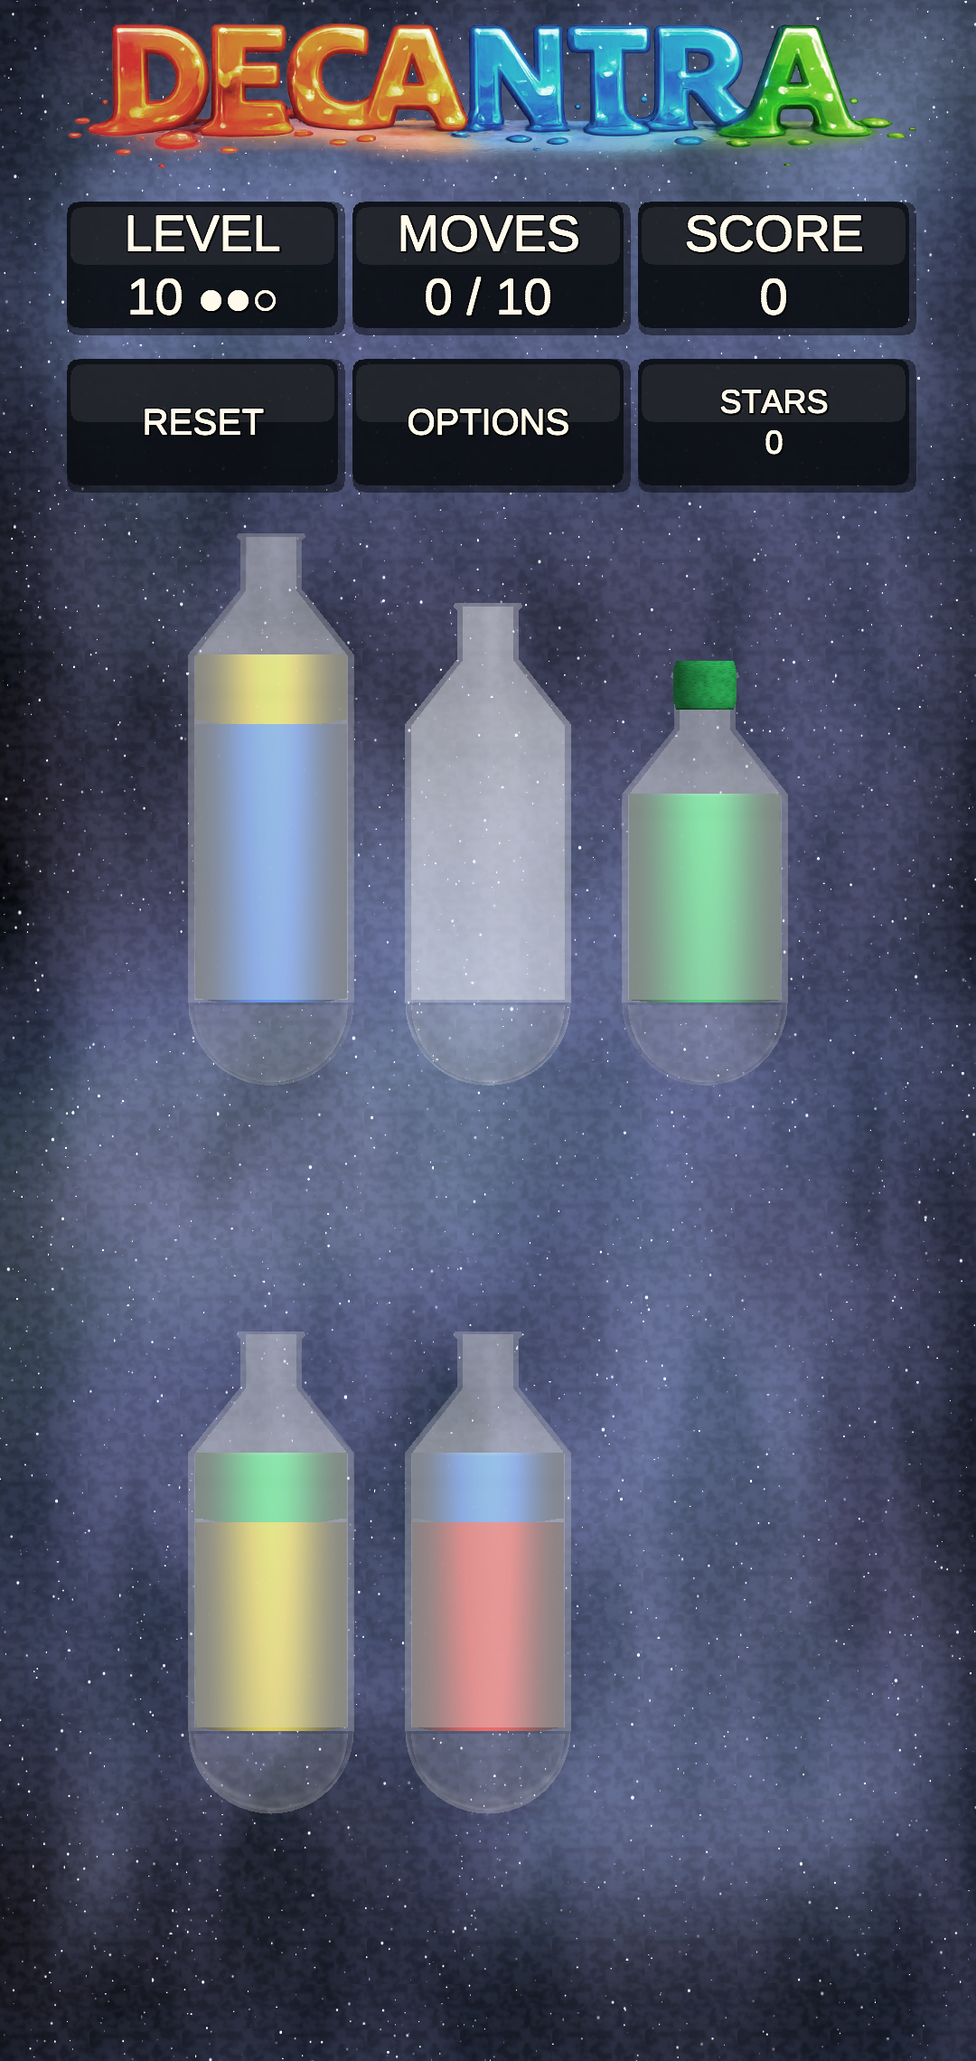
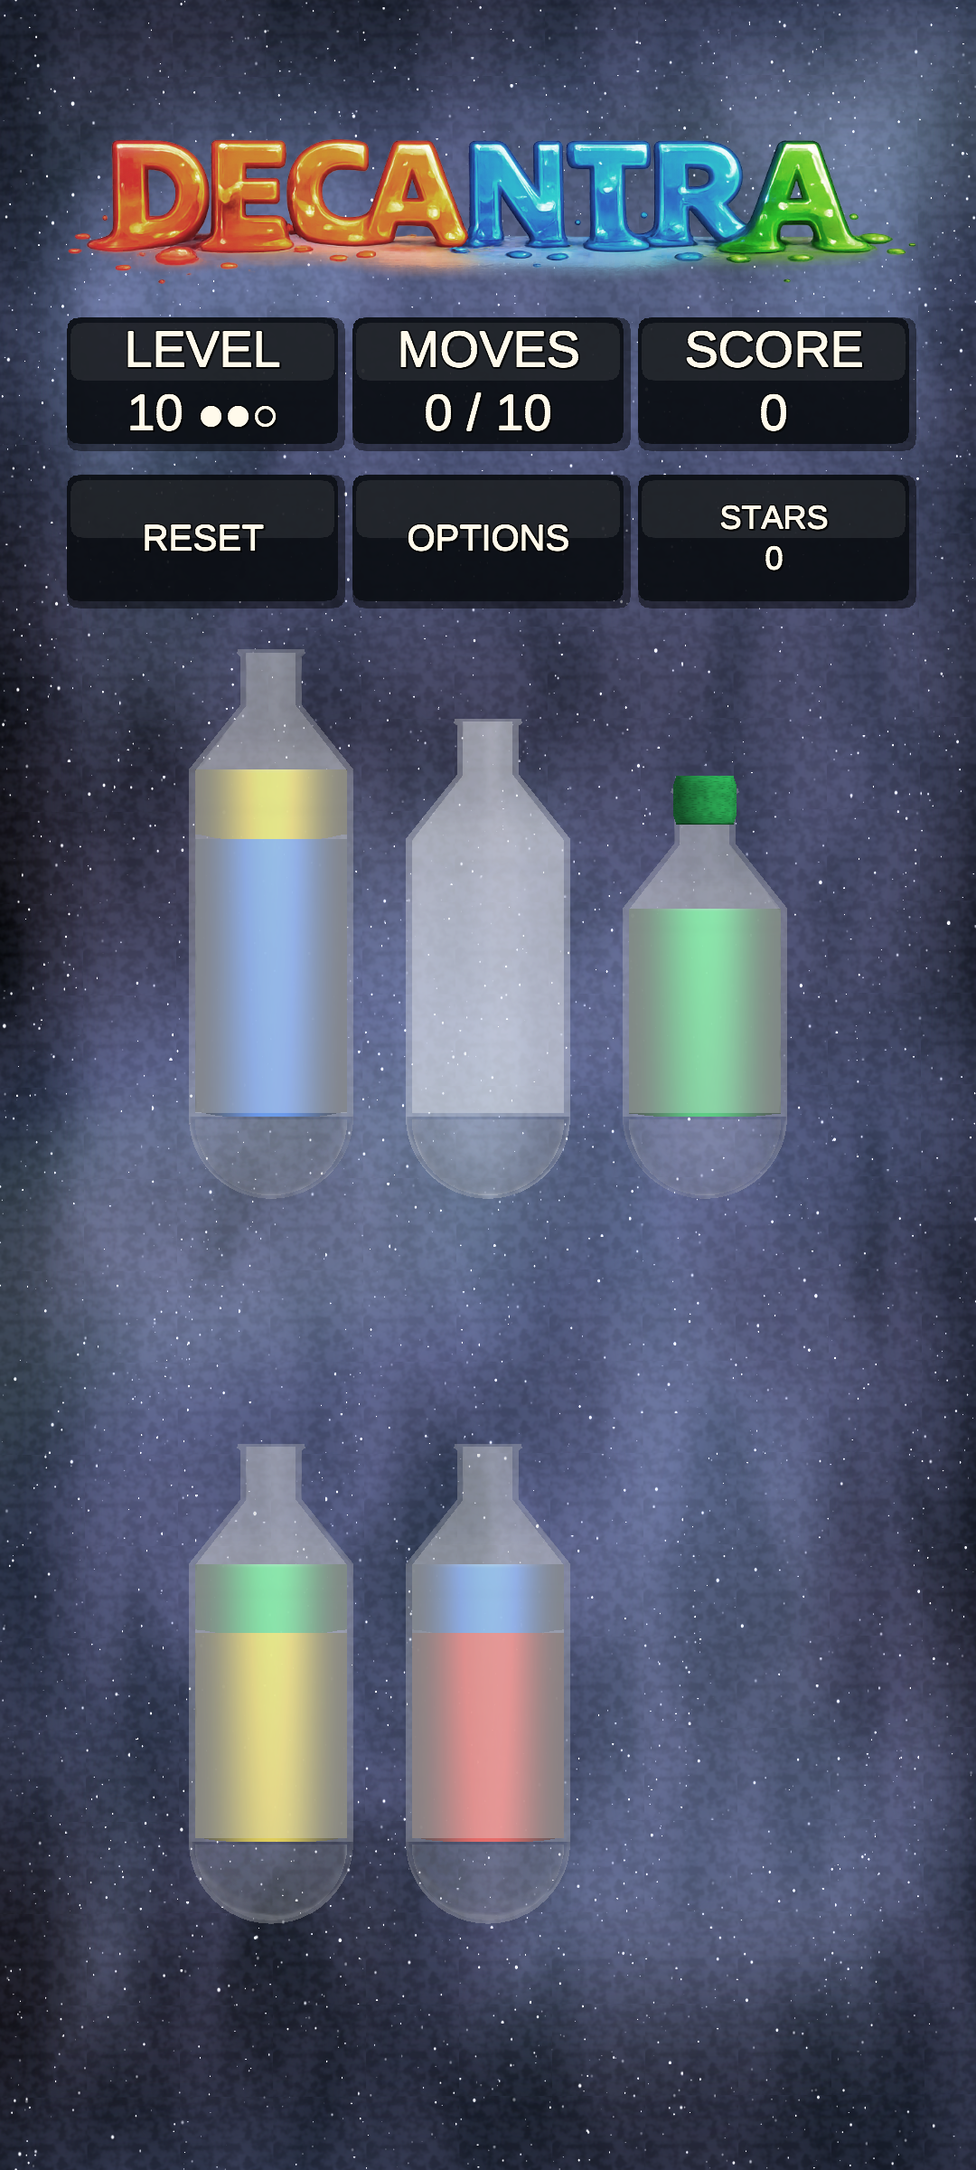
Tighten three-row bottle layout
Adjust HudSafeLayout only for 3-row gameplay boards by shrinking internal row gaps, slightly biasing the grid downward, and reclaiming that space as larger bottle cells while preserving the 2-row equal-gap layout exactly.

Update PlayMode regressions to lock unchanged HUD and horizontal metrics, explicitly expect denser 3-row packing, and prove the original 2-row layout formula remains intact. Refresh the representative 2-row and 3-row validation screenshots plus layout reports from the attached Android device.

diff --git a/Assets/Decantra/Tests/PlayMode/AndroidLayoutInvariancePlayModeTests.cs b/Assets/Decantra/Tests/PlayMode/AndroidLayoutInvariancePlayModeTests.cs
@@ -110,7 +110,7 @@ namespace Decantra.Tests.PlayMode
         // ─── C: Layout metrics match baseline ─────────────────────────────────────
 
         [UnityTest]
-        public IEnumerator LayoutMetrics_MatchPreFixBaseline_NoDeltaExceedsTolerance()
+        public IEnumerator LayoutMetrics_PreserveHudAndHorizontalBaseline_WhileCompactingThreeRowBoards()
         {
             if (!File.Exists(BaselineFixturePath))
             {
@@ -132,21 +132,103 @@ namespace Decantra.Tests.PlayMode
             // --- Positional ratios ---
             AssertRatio("LogoTopY", baseline.LogoTopRatioY, current.LogoTopRatioY);
             AssertRatio("LogoBottomY", baseline.LogoBottomRatioY, current.LogoBottomRatioY);
-            AssertRatio("Row1CapTopY", baseline.Row1CapTopRatioY, current.Row1CapTopRatioY);
-            AssertRatio("Row2CapTopY", baseline.Row2CapTopRatioY, current.Row2CapTopRatioY);
-            AssertRatio("Row3CapTopY", baseline.Row3CapTopRatioY, current.Row3CapTopRatioY);
-            AssertRatio("BottomBottleBottomY", baseline.BottomBottleBottomRatioY, current.BottomBottleBottomRatioY);
             AssertRatio("LeftBottleCenterX", baseline.LeftBottleCenterRatioX, current.LeftBottleCenterRatioX);
             AssertRatio("MiddleBottleCenterX", baseline.MiddleBottleCenterRatioX, current.MiddleBottleCenterRatioX);
             AssertRatio("RightBottleCenterX", baseline.RightBottleCenterRatioX, current.RightBottleCenterRatioX);
-            AssertRatio("RowSpacing12", baseline.RowSpacing12RatioY, current.RowSpacing12RatioY);
-            AssertRatio("RowSpacing23", baseline.RowSpacing23RatioY, current.RowSpacing23RatioY);
             AssertRatio("BottleSpacingLM", baseline.BottleSpacingLMRatioX, current.BottleSpacingLMRatioX);
             AssertRatio("BottleSpacingMR", baseline.BottleSpacingMRRatioX, current.BottleSpacingMRRatioX);
+
+            Assert.Less(current.RowSpacing12RatioY, baseline.RowSpacing12RatioY - RatioTolerance,
+                $"RowSpacing12 should shrink for 3-row boards. baseline={baseline.RowSpacing12RatioY:F6}, current={current.RowSpacing12RatioY:F6}");
+            Assert.Less(current.RowSpacing23RatioY, baseline.RowSpacing23RatioY - RatioTolerance,
+                $"RowSpacing23 should shrink for 3-row boards. baseline={baseline.RowSpacing23RatioY:F6}, current={current.RowSpacing23RatioY:F6}");
+            Assert.Less(current.Row1CapTopRatioY, baseline.Row1CapTopRatioY - RatioTolerance,
+                $"Top row should sit slightly lower under the HUD. baseline={baseline.Row1CapTopRatioY:F6}, current={current.Row1CapTopRatioY:F6}");
+
+            float baselineBottleSpan = baseline.Row1CapTopRatioY - baseline.BottomBottleBottomRatioY;
+            float currentBottleSpan = current.Row1CapTopRatioY - current.BottomBottleBottomRatioY;
+            Assert.Greater(currentBottleSpan, baselineBottleSpan + RatioTolerance,
+                $"3-row bottle stack should occupy more vertical space. baselineSpan={baselineBottleSpan:F6}, currentSpan={currentBottleSpan:F6}");
 
             Debug.Log($"[AndroidLayoutInvariance] All layout metrics within tolerance. " +
                       $"Canvas={current.CanvasWidth}×{current.CanvasHeight}, " +
                       $"Row1TopY={current.Row1CapTopY:F2}, RowGap12={current.RowGap12:F2}px");
+        }
+
+        [UnityTest]
+        public IEnumerator TwoRowLayouts_KeepOriginalEqualGapModel()
+        {
+            SceneBootstrap.EnsureScene();
+            yield return null;
+            yield return null;
+
+            var controller = FindController();
+            Assert.IsNotNull(controller, "GameController not found.");
+
+            int levelIndex = -1;
+            int activeBottleCount = 0;
+            for (int candidate = 1; candidate <= 40; candidate++)
+            {
+                controller.LoadLevel(candidate, 192731);
+                yield return null;
+                yield return new WaitForSeconds(0.1f);
+                Canvas.ForceUpdateCanvases();
+
+                activeBottleCount = GetActiveBottleRects(controller).Count;
+                if (activeBottleCount > 0 && activeBottleCount <= 6)
+                {
+                    levelIndex = candidate;
+                    break;
+                }
+            }
+
+            Assert.Greater(levelIndex, 0, "Could not find a 2-row gameplay level in the first 40 deterministic levels.");
+
+            var hudSafeLayout = Object.FindFirstObjectByType<HudSafeLayout>();
+            Assert.IsNotNull(hudSafeLayout, "HudSafeLayout not found.");
+
+            var bottleGridLayout = GetPrivateField<GridLayoutGroup>(hudSafeLayout, "bottleGridLayout");
+            var bottleGrid = GetPrivateField<RectTransform>(hudSafeLayout, "bottleGrid");
+            var root = GetPrivateField<RectTransform>(hudSafeLayout, "_root");
+            var topHud = GetPrivateField<RectTransform>(hudSafeLayout, "topHud");
+            var secondaryHud = GetPrivateField<RectTransform>(hudSafeLayout, "secondaryHud");
+            var brandLockup = GetPrivateField<RectTransform>(hudSafeLayout, "brandLockup");
+            var bottomHud = GetPrivateField<RectTransform>(hudSafeLayout, "bottomHud");
+            var baseCellSize = GetPrivateField<Vector2>(hudSafeLayout, "_baseGridCellSize");
+            float topPadding = GetPrivateField<float>(hudSafeLayout, "topPadding");
+            float bottomPadding = GetPrivateField<float>(hudSafeLayout, "bottomPadding");
+
+            Assert.IsNotNull(bottleGridLayout, "Bottle grid layout missing.");
+            Assert.IsNotNull(bottleGrid, "Bottle grid missing.");
+            Assert.IsNotNull(root, "Bottle layout root missing.");
+
+            float topBottom = Mathf.Min(GetMinY(topHud, root), GetMinY(secondaryHud, root));
+            if (brandLockup != null)
+            {
+                topBottom = Mathf.Min(topBottom, GetMinY(brandLockup, root));
+            }
+
+            float bottomTop = GetMaxY(bottomHud, root);
+            float availableHeight = (topBottom - topPadding) - (bottomTop + bottomPadding);
+            const int rows = 2;
+            const float minClearancePx = 48f;
+            const float bottleTopOverhang = 0.1162f;
+
+            float maxFillCellHeight = (availableHeight - (rows + 1f) * minClearancePx)
+                                     / (rows + (rows + 1f) * bottleTopOverhang);
+            float expectedCellHeight = Mathf.Max(baseCellSize.y, maxFillCellHeight);
+            float expectedGap = (availableHeight - rows * expectedCellHeight) / (rows + 1f);
+
+            Assert.AreEqual(expectedCellHeight, bottleGridLayout.cellSize.y, 1f,
+                $"2-row cell height changed unexpectedly on level {levelIndex}.");
+            Assert.AreEqual(expectedGap, bottleGridLayout.spacing.y, 1f,
+                $"2-row vertical spacing changed unexpectedly on level {levelIndex}.");
+            Assert.AreEqual(Mathf.RoundToInt(expectedGap), bottleGridLayout.padding.top, 1,
+                $"2-row top padding changed unexpectedly on level {levelIndex}.");
+            Assert.AreEqual(Mathf.RoundToInt(expectedGap), bottleGridLayout.padding.bottom, 1,
+                $"2-row bottom padding changed unexpectedly on level {levelIndex}.");
+            Assert.AreEqual(Vector2.zero, bottleGrid.anchoredPosition,
+                $"2-row bottle grid anchor shifted unexpectedly on level {levelIndex}.");
         }
 
         // ─── D: Bounding-box overlap detection ────────────────────────────────────
@@ -284,6 +366,39 @@ namespace Decantra.Tests.PlayMode
             Assert.LessOrEqual(delta, RatioTolerance,
                 $"{name} ratio delta {delta:F6} exceeds {RatioTolerance:F6} " +
                 $"(baseline={baseline:F6}, current={current:F6}).");
+        }
+
+        private static T GetPrivateField<T>(object instance, string fieldName)
+        {
+            var field = instance.GetType().GetField(fieldName, BindingFlags.Instance | BindingFlags.NonPublic);
+            Assert.IsNotNull(field, $"Field not found: {fieldName}");
+            return (T)field.GetValue(instance);
+        }
+
+        private static float GetMinY(RectTransform rect, RectTransform root)
+        {
+            var corners = new Vector3[4];
+            rect.GetWorldCorners(corners);
+            float min = float.MaxValue;
+            for (int i = 0; i < corners.Length; i++)
+            {
+                min = Mathf.Min(min, root.InverseTransformPoint(corners[i]).y);
+            }
+
+            return min;
+        }
+
+        private static float GetMaxY(RectTransform rect, RectTransform root)
+        {
+            var corners = new Vector3[4];
+            rect.GetWorldCorners(corners);
+            float max = float.MinValue;
+            for (int i = 0; i < corners.Length; i++)
+            {
+                max = Mathf.Max(max, root.InverseTransformPoint(corners[i]).y);
+            }
+
+            return max;
         }
 
         private static List<RectTransform> GetActiveBottleRects(GameController controller)

diff --git a/Assets/Decantra/Presentation/View/HudSafeLayout.cs b/Assets/Decantra/Presentation/View/HudSafeLayout.cs
@@ -34,6 +34,10 @@ namespace Decantra.Presentation.View
         //   with idealGap = (available - rows*cellH)/(rows+1):
         //   => cellH <= (available - (rows+1)*MinClearancePx) / (rows + (rows+1)*BottleTopOverhang)
         private const float BottleTopOverhang = 0.1162f;
+        private const float ThreeRowInnerGapReductionPx = 24f;
+        private const float ThreeRowTopGapBiasPx = 12f;
+        private const float ThreeRowBottomGapReductionPx = 12f;
+        private const float MinimumEdgeGapPx = MinClearancePx * 0.5f;
 #if UNITY_EDITOR || DEVELOPMENT_BUILD
         private const float LayoutAssertTolerance = 0.5f;
 #endif
@@ -198,26 +202,42 @@ namespace Decantra.Presentation.View
 
                     // With the final cell height, compute equal gaps that exhaust available space.
                     float idealGap = (availableHeight - rows * cellHeight) / (rows + 1f);
-                    if (idealGap >= MinClearancePx * 0.5f)
+                    if (idealGap >= MinimumEdgeGapPx)
                     {
-                        // Expand cells to maximum fill height.
+                        float spacingY = idealGap;
+                        float topPaddingY = idealGap;
+                        float bottomPaddingY = idealGap;
+
+                        if (rows == GridRows)
+                        {
+                            // Three-row boards look under-packed with a strict equal-gap model.
+                            // Tighten only the internal gaps and keep a little more space above
+                            // than below so the grid grows slightly and sits a touch lower.
+                            spacingY = Mathf.Max(MinimumEdgeGapPx, idealGap - ThreeRowInnerGapReductionPx);
+                            topPaddingY = Mathf.Max(spacingY, idealGap + ThreeRowTopGapBiasPx);
+                            bottomPaddingY = Mathf.Max(MinimumEdgeGapPx, idealGap - ThreeRowBottomGapReductionPx);
+
+                            float compactedCellHeight = (availableHeight - topPaddingY - bottomPaddingY - (rows - 1f) * spacingY) / rows;
+                            cellHeight = Mathf.Max(cellHeight, compactedCellHeight);
+                        }
+
                         bottleGridLayout.cellSize = new Vector2(bottleGridLayout.cellSize.x, cellHeight);
-                        bottleGridLayout.spacing = new Vector2(_baseGridSpacing.x, idealGap);
+                        bottleGridLayout.spacing = new Vector2(_baseGridSpacing.x, spacingY);
                         bottleGridLayout.padding = new RectOffset(
                             _baseGridPadding.left,
                             _baseGridPadding.right,
-                            Mathf.RoundToInt(idealGap),
-                            Mathf.RoundToInt(idealGap));
+                            Mathf.RoundToInt(topPaddingY),
+                            Mathf.RoundToInt(bottomPaddingY));
                         // sizeDelta spans the full available height so the grid fills the area.
                         bottleGrid.sizeDelta = new Vector2(
                             bottleGrid.sizeDelta.x,
-                            rows * cellHeight + (rows + 1f) * idealGap);
+                            rows * cellHeight + (rows - 1f) * spacingY + topPaddingY + bottomPaddingY);
                         gridHeight = bottleGrid.sizeDelta.y;
                         appliedEqualGaps = true;
 #if UNITY_EDITOR || DEVELOPMENT_BUILD
                         if (!IsRunningUnityTests())
                         {
-                            AssertEqualGapModel(desiredTop, desiredBottom, rows, cellHeight, idealGap, topBottom);
+                            AssertGapModel(desiredTop, desiredBottom, rows, cellHeight, spacingY, topPaddingY, bottomPaddingY, topBottom);
                         }
 #endif
                     }
@@ -282,11 +302,13 @@ namespace Decantra.Presentation.View
         }
 
 #if UNITY_EDITOR || DEVELOPMENT_BUILD
-        private void AssertEqualGapModel(float screenTopY, float screenBottomY, int rows, float maxBottleHeight, float gapHeight, float hudBottomY)
+        private void AssertGapModel(float screenTopY, float screenBottomY, int rows, float maxBottleHeight, float gapHeight, float topGapHeight, float bottomGapHeight, float hudBottomY)
         {
             Debug.Assert(gapHeight > 0f, $"HudSafeLayout gapHeight must be positive. gap={gapHeight}");
+            Debug.Assert(topGapHeight > 0f, $"HudSafeLayout topGapHeight must be positive. gap={topGapHeight}");
+            Debug.Assert(bottomGapHeight > 0f, $"HudSafeLayout bottomGapHeight must be positive. gap={bottomGapHeight}");
 
-            float row1Top = screenTopY - gapHeight;
+            float row1Top = screenTopY - topGapHeight;
             float currentTop = row1Top;
             float rowBottom = currentTop;
             for (int i = 0; i < rows; i++)
@@ -297,8 +319,8 @@ namespace Decantra.Presentation.View
 
             float bottomGap = rowBottom - screenBottomY;
 
-            Debug.Assert(Mathf.Abs(bottomGap - gapHeight) <= LayoutAssertTolerance,
-                $"HudSafeLayout bottom gap mismatch. expected={gapHeight} actual={bottomGap}");
+            Debug.Assert(Mathf.Abs(bottomGap - bottomGapHeight) <= LayoutAssertTolerance,
+                $"HudSafeLayout bottom gap mismatch. expected={bottomGapHeight} actual={bottomGap}");
 
             Debug.Assert(row1Top < hudBottomY - LayoutAssertTolerance,
                 $"HudSafeLayout row1 touches/intersects HUD. row1Top={row1Top}, hudBottom={hudBottomY}");

diff --git a/Assets/Decantra/Tests/PlayMode/Layout/LayoutMetricsProbePlayModeTests.cs b/Assets/Decantra/Tests/PlayMode/Layout/LayoutMetricsProbePlayModeTests.cs
@@ -33,7 +33,7 @@ namespace Decantra.Tests.PlayMode.Layout
         }
 
         [UnityTest]
-        public IEnumerator LayoutInvariants_MatchBaselineWithinTolerance()
+        public IEnumerator LayoutInvariants_PreserveHudAndHorizontalBaseline_WhileCompactingThreeRowBoards()
         {
             string baselinePath = ResolveOutputPath(
                 "DECANTRA_LAYOUT_BASELINE_PATH",
@@ -58,19 +58,24 @@ namespace Decantra.Tests.PlayMode.Layout
             Compare("LogoBottomY", baseline.LogoBottomY, current.LogoBottomY, baseline.LogoBottomRatioY, current.LogoBottomRatioY);
             Compare("LogoCenterX", baseline.LogoCenterX, current.LogoCenterX, baseline.LogoCenterRatioX, current.LogoCenterRatioX);
 
-            Compare("Row1CapTopY", baseline.Row1CapTopY, current.Row1CapTopY, baseline.Row1CapTopRatioY, current.Row1CapTopRatioY);
-            Compare("Row2CapTopY", baseline.Row2CapTopY, current.Row2CapTopY, baseline.Row2CapTopRatioY, current.Row2CapTopRatioY);
-            Compare("Row3CapTopY", baseline.Row3CapTopY, current.Row3CapTopY, baseline.Row3CapTopRatioY, current.Row3CapTopRatioY);
-            Compare("BottomBottleBottomY", baseline.BottomBottleBottomY, current.BottomBottleBottomY, baseline.BottomBottleBottomRatioY, current.BottomBottleBottomRatioY);
-
             Compare("LeftBottleCenterX", baseline.LeftBottleCenterX, current.LeftBottleCenterX, baseline.LeftBottleCenterRatioX, current.LeftBottleCenterRatioX);
             Compare("MiddleBottleCenterX", baseline.MiddleBottleCenterX, current.MiddleBottleCenterX, baseline.MiddleBottleCenterRatioX, current.MiddleBottleCenterRatioX);
             Compare("RightBottleCenterX", baseline.RightBottleCenterX, current.RightBottleCenterX, baseline.RightBottleCenterRatioX, current.RightBottleCenterRatioX);
 
-            Compare("RowSpacing12", baseline.RowSpacing12, current.RowSpacing12, baseline.RowSpacing12RatioY, current.RowSpacing12RatioY);
-            Compare("RowSpacing23", baseline.RowSpacing23, current.RowSpacing23, baseline.RowSpacing23RatioY, current.RowSpacing23RatioY);
             Compare("BottleSpacingLM", baseline.BottleSpacingLM, current.BottleSpacingLM, baseline.BottleSpacingLMRatioX, current.BottleSpacingLMRatioX);
             Compare("BottleSpacingMR", baseline.BottleSpacingMR, current.BottleSpacingMR, baseline.BottleSpacingMRRatioX, current.BottleSpacingMRRatioX);
+
+            Assert.Less(current.RowSpacing12, baseline.RowSpacing12,
+                $"RowSpacing12 should shrink for 3-row boards. baseline={baseline.RowSpacing12:F4}, current={current.RowSpacing12:F4}.");
+            Assert.Less(current.RowSpacing23, baseline.RowSpacing23,
+                $"RowSpacing23 should shrink for 3-row boards. baseline={baseline.RowSpacing23:F4}, current={current.RowSpacing23:F4}.");
+            Assert.Less(current.Row1CapTopY, baseline.Row1CapTopY,
+                $"Top row should sit slightly lower under the HUD. baseline={baseline.Row1CapTopY:F4}, current={current.Row1CapTopY:F4}.");
+
+            float baselineBottleSpan = baseline.Row1CapTopY - baseline.BottomBottleBottomY;
+            float currentBottleSpan = current.Row1CapTopY - current.BottomBottleBottomY;
+            Assert.Greater(currentBottleSpan, baselineBottleSpan,
+                $"3-row bottle stack should occupy more vertical space. baselineSpan={baselineBottleSpan:F4}, currentSpan={currentBottleSpan:F4}.");
         }
 
         private static IEnumerator CaptureMetrics(Action<LayoutProbe.LayoutMetrics> onCaptured)

diff --git a/PLANS.md b/PLANS.md
@@ -1,3 +1,59 @@
+# Three-Row Gameplay Bottle Layout Correction Plan
+
+Last updated: 2026-03-12 UTC
+Execution engineer: GitHub Copilot (GPT-5.4)
+
+## Objective
+
+Improve only the gameplay bottle layout when the board resolves to 3 rows.
+
+Required outcomes:
+
+- Slightly increase bottle size for 3-row layouts.
+- Reduce vertical spacing between 3-row bottle rows.
+- Optionally move the full grid slightly downward to keep the top row comfortably below the HUD.
+- Preserve 2-row layouts exactly.
+- Build and deploy the APK to a device, regenerate screenshots, and confirm the PR CI state is green before considering the task complete.
+
+## Located Layout Code
+
+- Bottle grid layout controller: `Assets/Decantra/Presentation/View/HudSafeLayout.cs`
+- Row-count branch: `ResolveGridRows()` returns `2` for `<= 6` active bottles, otherwise `3`.
+- Bottle scaling path:
+  - equal-gap branch modifies `bottleGridLayout.cellSize`
+  - fallback branch modifies `bottleGrid.localScale`
+- Vertical spacing path: `bottleGridLayout.spacing` and top/bottom `padding`
+- Grid anchor position path: `bottleGrid.anchoredPosition`
+- Existing regression coverage: `Assets/Decantra/Tests/PlayMode/AndroidLayoutInvariancePlayModeTests.cs`
+
+## Root Cause Hypothesis
+
+- `HudSafeLayout.ApplyLayout()` currently applies the same equal-gap fill model to both 2-row and 3-row layouts.
+- In the 3-row case, the available height is redistributed into symmetric top/bottom/inter-row gaps, which leaves the grid visually under-packed instead of using the space to keep bottles larger and rows tighter.
+- The grid anchor is then reset to `Vector2.zero`, so there is no per-row-count composition adjustment.
+
+## Execution Checklist
+
+- [x] Locate bottle scale, spacing, and anchoring code
+- [x] Identify the 2-row vs 3-row branching point
+- [x] Patch `HudSafeLayout` with 3-row-only tuning
+- [x] Add or update regression coverage for 2-row invariance and 3-row compaction
+- [x] Run Unity test validation
+- [x] Capture before/after visual evidence for 2-row and 3-row layouts
+- [x] Rebuild/install for device verification
+- [ ] Confirm APK is built, deployed, screenshots regenerated, and PR CI is green
+- [x] Confirm layout invariants A-E remain satisfied
+
+## Constraints
+
+- No changes to 2-row layout behavior
+- No changes to HUD sizing/layout
+- No changes to bottle rendering/assets/animation
+- No changes to gameplay/input/physics/camera/scene hierarchy
+- Keep the fix minimal and localized to layout logic
+
+---
+
 # Bottle Rendering Fix Plan
 
 ## 2026-03-06 Bottle Rendering + Valid Target Highlight
